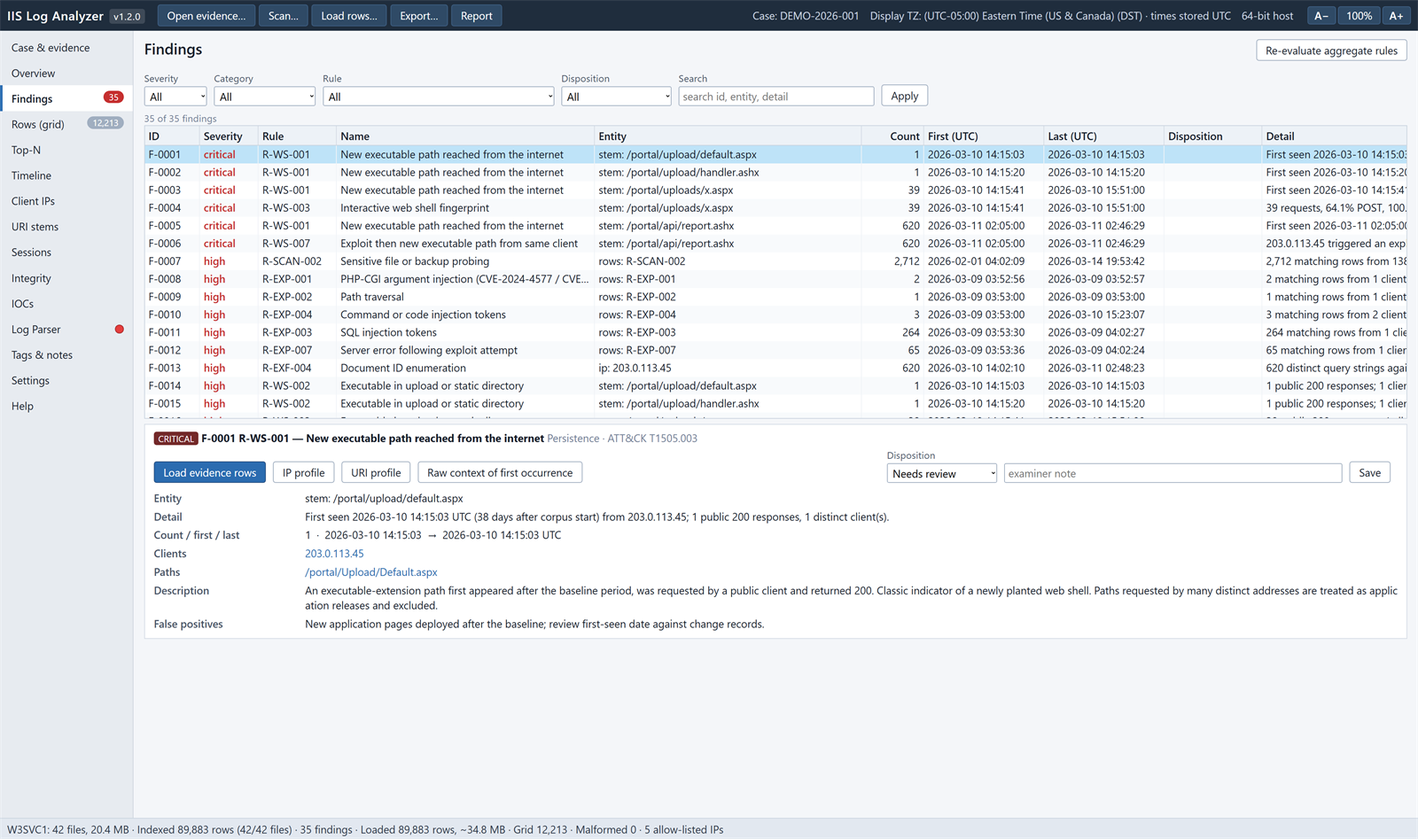
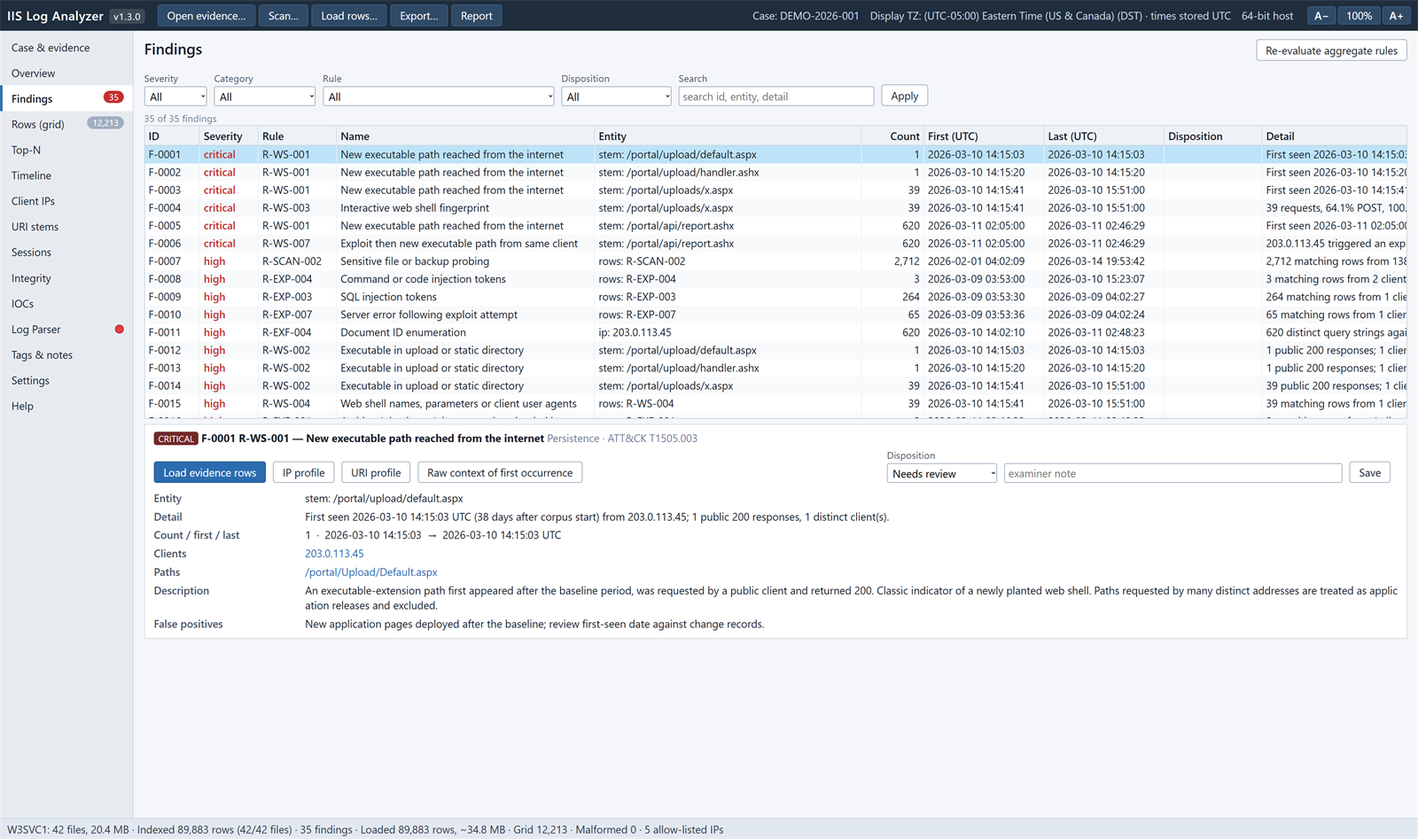
Outcome-graded severities, response mix in findings, chart ranges narrow the Load dialog (1.3.0)
- Rules that match the request itself (R-WS-004, R-EXP-001 to R-EXP-005)
  are graded by the response ("gradeByStatus": true): 2xx and 5xx keep the
  rule severity, 3xx drops one level, 4xx and other failures drop to low,
  status not logged is unchanged. Failed attempts are still counted; a
  finding takes the highest severity of its rows. Same logic in both engines.
- Row-rule findings list their responses by status class and say when no
  request succeeded or caused a server error.
- Loaded rows keep the graded severity of each hit: the sev: filter, row
  colours and rule-hit badges use it.
- Opening the Load dialog from a chart (Overview, Timeline, month heatmap,
  Integrity) now also narrows the filename-date range to the files that
  cover the selected time range, so only those files are read.
- Index schema 7, rule set 1.1.0. Regression checks for the grading.

diff --git a/docs/manual.html b/docs/manual.html
@@ -97,7 +97,7 @@ footer { margin-top: 60px; color: var(--muted); font-size: .85rem; border-top: 1
 <div class="layout">
 <nav class="toc" aria-label="Contents">
   <div class="brand">IIS Log Analyzer</div>
-  <div class="ver">Manual for version 1.2.0</div>
+  <div class="ver">Manual for version 1.3.0</div>
   <ol id="toc-list"></ol>
   <button class="theme-btn" id="themeBtn" type="button">Toggle light / dark</button>
 </nav>
@@ -107,7 +107,7 @@ footer { margin-top: 60px; color: var(--muted); font-size: .85rem; border-top: 1
 <header class="hero">
   <h1>IIS Log Analyzer</h1>
   <p class="lead">Offline forensic analysis of Microsoft IIS W3C Extended logs, from a single HTML Application that runs on any Windows 10 or 11 workstation with nothing to install.</p>
-  <div class="chips"><span class="chip">Version 1.2.0</span><span class="chip">Windows 10 / 11</span><span class="chip">mshta (IE11 engine)</span><span class="chip">Read-only on evidence</span><span class="chip">No network access</span></div>
+  <div class="chips"><span class="chip">Version 1.3.0</span><span class="chip">Windows 10 / 11</span><span class="chip">mshta (IE11 engine)</span><span class="chip">Read-only on evidence</span><span class="chip">No network access</span></div>
 </header>
 
 <details class="toc-mobile"><summary>Contents</summary><ol id="toc-mobile-list"></ol></details>
@@ -237,6 +237,7 @@ tmp\        transient engine jobs, hashing and Log Parser scripts</code></pre>
   <li><strong>Actions:</strong> <em>Load evidence rows</em> loads exactly the rows behind the finding; <em>IP profile</em> and <em>URI profile</em> open the entity; <em>Raw context of first occurrence</em> shows the lines around the first hit, read directly from the evidence file.</li>
   <li><strong>Dispositions:</strong> Needs review, True positive, False positive, Benign true positive, each with an examiner note. They are saved in the case and appear in the report.</li>
   <li><strong>Grouping:</strong> when a rule matches more than 25 clients, files or paths, the 25 strongest are separate findings and the rest are folded into one summary finding.</li>
+  <li><strong>Outcome:</strong> row-rule findings list their responses by status class. Rules that match the request itself are graded by the response (see <a href="#rules">Detection rules</a>), so probes that only received 404s are reported as low.</li>
   <li><strong>Re-evaluate aggregate rules</strong> rebuilds findings from the index after rule settings change. Row-rule changes need a rescan; the app warns when a row rule was enabled after the scan.</li>
 </ul>
 </section>
@@ -245,6 +246,7 @@ tmp\        transient engine jobs, hashing and Log Parser scripts</code></pre>
 <h2>Loading rows</h2>
 <p><em>Load rows&hellip;</em> streams the selected files again and keeps the rows that match a date range and an optional pre-filter (same syntax as the quick filter, for example <code>class:public method:POST</code>). Presets cover common slices. Loading stops at the row cap (2,000,000 rows in the 64-bit host by default); nothing is sampled, and a capped load says so.</p>
 <ul>
+  <li><strong>From a chart:</strong> dragging across or clicking a chart (Overview, Timeline, month heatmap, Integrity) opens the dialog with that time range for the rows and narrows the filename dates to the files that cover it, so only those files are read. Widen the file range if you need to.</li>
   <li><strong>Keep raw lines</strong> stores the original text of each row for display, copying and raw exports.</li>
   <li>Files up to 32 MB are buffered while they are read; larger files are streamed so memory stays bounded.</li>
   <li>A file that cannot be opened is never skipped silently: the load is marked incomplete, the files are listed on screen, and every export from that load records them.</li>
@@ -285,7 +287,7 @@ tmp\        transient engine jobs, hashing and Log Parser scripts</code></pre>
 <tr><td><code>ua:python</code> <code>family:scanner</code> <code>ua:empty</code></td><td>User agent contains, user-agent family, empty user agent</td></tr>
 <tr><td><code>taken:&gt;30000</code> <code>bytes:&gt;1000000</code></td><td>time-taken in milliseconds, sc-bytes</td></tr>
 <tr><td><code>after:2026-03-09</code> <code>before:"2026-03-10 12:00"</code> <code>hour:0-6</code> <code>dow:0,6</code></td><td>Time in the case time zone (append <code>Z</code> for UTC), local hour, weekday (0 = Sunday)</td></tr>
-<tr><td><code>rule:any</code> <code>rule:R-EXP-*</code> <code>sev:high,critical</code></td><td>Any rule hit, rule ID or wildcard, hit severity</td></tr>
+<tr><td><code>rule:any</code> <code>rule:R-EXP-*</code> <code>sev:high,critical</code></td><td>Any rule hit, rule ID or wildcard, hit severity as graded for that row</td></tr>
 <tr><td><code>tag:Attacker</code> <code>tag:none</code> <code>ioc:any</code></td><td>Tags and IOC matches</td></tr>
 <tr><td><code>file:u_ex2603*</code> <code>text:"phrase"</code></td><td>Source file name, raw-line substring</td></tr>
 <tr><td><code>-status:304</code></td><td>Negation of any term</td></tr>
@@ -433,6 +435,16 @@ tmp\        transient engine jobs, hashing and Log Parser scripts</code></pre>
 <tr><td class="nowrap">R-INF-006</td><td class="sev medium">medium</td><td>corpus</td><td>Heartbeat absent</td><td>T1562.002</td></tr>
 <tr><td class="nowrap">R-INF-007</td><td class="sev low">low</td><td>file</td><td>Malformed or undecodable content</td><td>T1070</td></tr>
 </table></div>
+<h3>Severity graded by the response</h3>
+<p>Six row rules match the request itself (web shell names and parameters, PHP-CGI injection, path traversal, SQL and command injection, .NET probing): R-WS-004 and R-EXP-001 to R-EXP-005. A scanner that asks for <code>/shell.php</code> and gets a 404 is hunting for a web shell, not using one, so these rules carry <code>"gradeByStatus": true</code> and their severity follows what the server answered:</p>
+<div class="table-wrap"><table>
+<tr><th>Response</th><th>Severity of that hit</th></tr>
+<tr><td>2xx (reached a handler) or 5xx (the handler failed)</td><td>The rule's severity, as listed above</td></tr>
+<tr><td>3xx</td><td>One level lower</td></tr>
+<tr><td>4xx and anything else</td><td>Low</td></tr>
+<tr><td>Status not logged</td><td>Unchanged</td></tr>
+</table></div>
+<p>Every request is still matched and counted, because failed attempts are evidence of who tried what and when. A finding takes the highest severity among its rows, so a single successful request keeps it at its full severity even among thousands of 404s. Each row-rule finding also lists its responses (for example <em>Responses: 1 2xx, 1,640 4xx</em>) and says when nothing succeeded. In the grid, <code>sev:</code> and the row colours use the graded severity, and the rule-hit badges in the row detail show it, with the rule default in the tooltip. Set <code>gradeByStatus</code> to <code>false</code> in <code>rules\default-rules.json</code> to turn grading off for a rule.</p>
 <h3>Custom rules</h3>
 <p>Add row rules to the JSON with a <code>match</code> block (see the disabled example <code>C-EXAMPLE-001</code>). Supported keys: <code>method</code>, <code>stem</code>, <code>query</code>, <code>ua</code>, <code>user</code>, <code>raw</code> (each <code>{contains|glob|regex|equals}</code>), <code>status</code> (<code>404</code>, <code>4xx</code>, <code>404.8</code>), <code>ipClass</code>, <code>uaFamily</code>, <code>ext</code>, <code>cip</code> (CIDRs), <code>minTaken</code> and <code>exec</code>.</p>
 <h3>Lists</h3>
@@ -548,7 +560,7 @@ tmp\        transient engine jobs, hashing and Log Parser scripts</code></pre>
 </ul>
 </section>
 
-<footer>IIS Log Analyzer 1.2.0 &middot; manual updated 2026-10-05. Screenshots show synthetic data generated by <code>tools\make-demo-logs.js</code>; all addresses are private or from documentation ranges.</footer>
+<footer>IIS Log Analyzer 1.3.0 &middot; manual updated 2026-10-05. Screenshots show synthetic data generated by <code>tools\make-demo-logs.js</code>; all addresses are private or from documentation ranges.</footer>
 </div>
 </main>
 </div>

diff --git a/lib/views.js b/lib/views.js
@@ -143,6 +143,13 @@
   };
 
   /* ======================= DIALOGS ======================= */
+  /* Filename-date range of the files whose rows overlap [from, to] (index first/last timestamps, else the filename
+   * date). Returns null when no dated file overlaps, so the dialog falls back to all files. */
+  V.fileDefaultsForRange = function (from, to) {
+    var files = (st.scope || st.site).files, ids = A.fileIdsForRange(from, to), a = '', z = '', i, d;
+    for (i = 0; i < ids.length; i++) { d = files[ids[i]].nameDate; if (d && d.length === 10) { if (!a || d < a) { a = d; } if (!z || d > z) { z = d; } } }
+    return a ? { from: a, to: z } : null;
+  };
   function fileSelector(files, defaults) {
     var dates = files.filter(function (f) { return f.nameDate; }).map(function (f) { return f.nameDate; }).sort();
     var from = UI.input(defaults && defaults.from || (dates[0] || ''), { style: { width: '110px' } }), to = UI.input(defaults && defaults.to || (dates[dates.length - 1] || ''), { style: { width: '110px' } });
@@ -183,7 +190,8 @@
     if (!st.site) { UI.alert('Load', 'Open evidence first.'); return; }
     preset = preset || {};
     var files = (st.scope || st.site).files;
-    var fs = fileSelector(files, preset.fileDefaults);
+    // A time range from a chart also narrows the file selection to the files that cover it, so only those are read.
+    var fs = fileSelector(files, preset.fileDefaults || ((preset.from || preset.to) ? V.fileDefaultsForRange(preset.from, preset.to) : null));
     var tf = UI.input(preset.from ? U.fmtTs(preset.from, St.tz) : '', { style: { width: '150px' }, placeholder: 'YYYY-MM-DD[ HH:MM]' });
     var tt = UI.input(preset.to ? U.fmtTs(preset.to, St.tz) : '', { style: { width: '150px' }, placeholder: 'YYYY-MM-DD[ HH:MM]' });
     var pre = UI.input(preset.pre || '', { id: 'loadpre', style: { width: '560px' }, placeholder: 'optional quick filter applied while loading, e.g. class:public' });
@@ -540,7 +548,7 @@
       cell: function (r, k) { return St.colByKey[k].get(store, g.view[r]); },
       rowClass: function (r) {
         var i = g.view[r], s = store.status[i], c = s >= 500 ? 's5' : (s >= 400 ? 's4' : '');
-        if (store.flags[i] & St.FLAGS.HITS) { var hs = store.t.hits.vals[store.hits[i]], sv = 0, p = hs.split(','), j; for (j = 0; j < p.length; j++) { sv = Math.max(sv, R.SEV[st.ruleSev[p[j]]] || 0); } c += ' hit' + sv; }
+        if (store.flags[i] & St.FLAGS.HITS) { var hs = store.t.hsev.vals[store.hsev[i]], sv = 0, p = hs.split(','), j; for (j = 0; j < p.length; j++) { sv = Math.max(sv, R.SEV[p[j]] || 0); } c += ' hit' + sv; }
         if (C.cur && St.tagText(store, i)) { c += ' tagged'; }
         return c;
       },
@@ -575,7 +583,7 @@
     var stCode = store.status[i] + '.' + Math.max(0, store.sub[i]);
     var file = store.files[store.file[i]], rk = C.rowKey(st.site.name, file.name, store.line[i]);
     var hitsEl = h('span');
-    if (hits) { hits.split(',').forEach(function (id) { var r = st.ruleset.byId[id]; hitsEl.appendChild(h('span', { className: 'sev sev-' + (r ? r.severity : 'info'), title: r ? r.description : '' }, id)); hitsEl.appendChild(document.createTextNode(' ' + (r ? r.name : '') + '   ')); }); }
+    if (hits) { var hsv = (A2.hitSevs ? A2.hitSevs() : '').split(','); hits.split(',').forEach(function (id, hi) { var r = st.ruleset.byId[id], gsv = hsv[hi] || (r ? r.severity : 'info'); hitsEl.appendChild(h('span', { className: 'sev sev-' + gsv, title: (r ? r.description : '') + (r && gsv !== r.severity ? ' (graded ' + gsv + ' for this response; rule default ' + r.severity + ')' : '') }, id)); hitsEl.appendChild(document.createTextNode(' ' + (r ? r.name : '') + '   ')); }); }
     var ioc = st.iocMatcher ? st.iocMatcher.test(A2) : null;
     var left = UI.kv([
       ['Time', U.fmtTs(store.ts[i]) + ' UTC   \u00b7   ' + U.fmtTs(store.ts[i], St.tz) + ' ' + tzLabel()],

diff --git a/lib/scan.js b/lib/scan.js
@@ -6,7 +6,7 @@
   'use strict';
   var U = NS.util, IO = NS.io, P = NS.parser, R = NS.rules, S = NS.scan = {};
 
-  S.SCHEMA = 6; // 4: ASCII-only JSON; 5: windows-1252 + UTF-8 recovery, DST zones; 6: strict dates, resume state, rule-set fingerprint incl. enabled rules
+  S.SCHEMA = 7; // 7: outcome-graded severities, response mix per rule; 4: ASCII-only JSON; 5: windows-1252 + UTF-8 recovery, DST zones; 6: strict dates, resume state, rule-set fingerprint incl. enabled rules
   S.IP_STEM_CAP = 32;   // distinct paths tracked per client (count continues as overflow)
   S.IP_UA_CAP = 8;      // distinct user agents tracked per client
   S.WIN_PURGE_ROWS = 400000; // purge idle per-client windows this often
@@ -333,9 +333,10 @@
       for (j = 0; j < nh; j++) {
         id = ev.hits[j];
         h = idx.ruleHits[id];
-        if (!h) { h = idx.ruleHits[id] = { n: 0, sev: ev.hitSev[j], first: t, last: t, kept: [], ips: U.newMap(), ipN: 0, stems: U.newMap(), stN: 0 }; }
+        if (!h) { h = idx.ruleHits[id] = { n: 0, sev: ev.hitSev[j], first: t, last: t, kept: [], ips: U.newMap(), ipN: 0, stems: U.newMap(), stN: 0, sx: [0, 0, 0, 0, 0] }; }
         h.n++; if (t > h.last) { h.last = t; } if (t < h.first) { h.first = t; }
         h.sev = R.maxSev(h.sev, ev.hitSev[j]);
+        h.sx[scl >= 2 && scl <= 5 ? scl - 2 : 4]++; // response mix: 2xx, 3xx, 4xx, 5xx, other
         if (h.kept.length < this.retention) { h.kept.push([r.fileId, r.lineNo, t, U.own(ip), h.kept.length < S.KEEP_RAW ? U.own(r.raw.length > 1500 ? r.raw.substr(0, 1500) : r.raw) : '']); }
         if (h.ips[ip] !== undefined) { h.ips[ip]++; } else if (h.ipN < 1000) { h.ips[ip] = 1; h.ipN++; }
         if (h.stems[si.key] !== undefined) { h.stems[si.key]++; } else if (h.stN < 1000) { h.stems[si.key] = 1; h.stN++; }
@@ -495,6 +496,10 @@
       f.count = h.n; f.first = h.first; f.last = h.last; f.ips = topKeys(h.ips, 25); f.stems = topKeys(h.stems, 25);
       f.examples = h.kept.slice(0, 20); f.kept = h.kept.length;
       f.detail = U.fmtNum(h.n) + ' matching rows from ' + (h.ipN >= 1000 ? '1000+' : h.ipN) + ' client(s); ' + (h.stN >= 1000 ? '1000+' : h.stN) + ' distinct path(s).';
+      var sx = h.sx || [0, 0, 0, 0, 0], mix = [], SXL = ['2xx', '3xx', '4xx', '5xx', 'other'], q;
+      f.statusMix = {}; for (q = 0; q < 5; q++) { f.statusMix[SXL[q]] = sx[q]; if (sx[q]) { mix.push(U.fmtNum(sx[q]) + ' ' + SXL[q]); } }
+      if (mix.length) { f.detail += ' Responses: ' + mix.join(', ') + '.'; }
+      if (rule.params && rule.params.gradeByStatus === true && h.n && !sx[0] && !sx[3]) { f.detail += ' No request succeeded or caused a server error (no 2xx or 5xx), so the severity is lowered.'; }
       out.push(f);
     }
     // --- per-IP escalations of row rules ---

diff --git a/lib/store.js b/lib/store.js
@@ -39,8 +39,8 @@
   St.Store = function (maxRows, keepRaw) {
     this.max = maxRows; this.n = 0; this.cap = 0; this.keepRaw = !!keepRaw; this.capped = false; this.failed = []; this.incomplete = false;
     this.t = { ip: new St.StrTable(true), method: new St.StrTable(), stem: new St.StrTable(), query: new St.StrTable(), ua: new St.StrTable(),
-      user: new St.StrTable(), ref: new St.StrTable(), host: new St.StrTable(), hits: new St.StrTable(), reason: new St.StrTable() };
-    this.t.hits.id('');
+      user: new St.StrTable(), ref: new St.StrTable(), host: new St.StrTable(), hits: new St.StrTable(), hsev: new St.StrTable(), reason: new St.StrTable() };
+    this.t.hits.id(''); this.t.hsev.id('');
     this.raw = keepRaw ? [] : null;
     // exact raw export: original line where UTF-8/BOM handling changed it, and non-CRLF terminators (sparse, by row)
     this.rawOrig = keepRaw ? {} : null; this.rawEol = keepRaw ? {} : null;
@@ -51,7 +51,7 @@
   var NUMCOLS = [['ts', Float64Array], ['file', Int32Array], ['line', Int32Array], ['status', Int16Array], ['sub', Int16Array], ['win32', Float64Array],
     ['taken', Int32Array], ['scb', Float64Array], ['csb', Float64Array], ['port', Int32Array], ['flags', Uint8Array],
     ['sip', Int32Array], ['cip', Int32Array], ['eip', Int32Array], ['method', Int32Array], ['stem', Int32Array], ['query', Int32Array], ['ua', Int32Array],
-    ['user', Int32Array], ['ref', Int32Array], ['host', Int32Array], ['hits', Int32Array]];
+    ['user', Int32Array], ['ref', Int32Array], ['host', Int32Array], ['hits', Int32Array], ['hsev', Int32Array]];
   St.Store.prototype.grow = function (newCap) {
     newCap = Math.min(newCap, this.max);
     if (newCap <= this.cap) { return false; }
@@ -81,6 +81,7 @@
     id = T.ua.id(r.ua); this.ua[i] = id; if (this.uaInfo[id] === undefined) { this.uaInfo[id] = c.ui; }
     this.user[i] = T.user.id(r.user); this.ref[i] = T.ref.id(r.referer); this.host[i] = T.host.id(r.host);
     this.hits[i] = ev.n ? T.hits.id(ev.hitString()) : 0;
+    this.hsev[i] = ev.n ? T.hsev.id(ev.hitSevString()) : 0; // graded severity per hit (same order as hits)
     var fl = 0;
     if (c.pub) { fl |= F_PUB; } if (c.si.exec) { fl |= F_EXEC; } if (c.si.stat) { fl |= F_STAT; }
     if (c.si.decErr || c.qi.decErr) { fl |= F_DECERR; } if (r.nonAscii) { fl |= F_NONASCII; } if (ev.n) { fl |= F_HITS; }

diff --git a/lib/rules.js b/lib/rules.js
@@ -9,6 +9,17 @@
   R.SEV = { critical: 5, high: 4, medium: 3, low: 2, info: 1 };
   R.SEV_NAMES = ['critical', 'high', 'medium', 'low', 'info'];
   R.maxSev = function (a, b) { return (R.SEV[a] || 0) >= (R.SEV[b] || 0) ? a : b; };
+  /* Outcome grading (rules with params.gradeByStatus): a request the server answered 2xx or 5xx keeps the rule's
+   * severity (it reached a handler or broke it); 3xx drops one level; 4xx and anything else drop to low (the attempt
+   * failed, e.g. a scanner asking for /shell.php and getting 404). Status not logged (-1): unchanged. Mirrored in C#. */
+  R.SEV_ORDER = ['info', 'low', 'medium', 'high', 'critical'];
+  R.gradeSev = function (sev, status) {
+    if (!(status >= 0)) { return sev; }
+    var c = Math.floor(status / 100), i = R.SEV_ORDER.indexOf(sev);
+    if (c === 2 || c === 5) { return sev; }
+    if (c === 3) { return i > 1 ? R.SEV_ORDER[i - 1] : sev; }
+    return i > 1 ? 'low' : sev;
+  };
   R.EXPLOIT_RULES = { 'R-EXP-001': 1, 'R-EXP-002': 1, 'R-EXP-003': 1, 'R-EXP-004': 1, 'R-EXP-005': 1, 'R-EXP-006': 1 };
 
   /* Simple FNV-1a 32-bit hash, used to fingerprint the rule set text. */
@@ -144,6 +155,7 @@
 
   function prepParams(rule) {
     var p = U.extend({}, rule.params || {});
+    p._grade = p.gradeByStatus === true;
     if (rule.id === 'R-SCAN-005' || rule.id === 'R-SCAN-006') { p._sub = setOf(p.substatus); }
     if (rule.id === 'R-EXP-006') { p._esc = setOf(p.escalateStatuses || [200, 500]); }
     if (rule.id === 'R-EXP-007') { p.windowMinutes = p.windowMinutes || 10; }
@@ -190,7 +202,7 @@
       res = L[i].fn(c, L[i].p, this);
       if (res) {
         this.hits[n] = L[i].id;
-        this.hitSev[n] = typeof res === 'string' ? res : L[i].sev;
+        this.hitSev[n] = L[i].p._grade ? R.gradeSev(typeof res === 'string' ? res : L[i].sev, r.status) : (typeof res === 'string' ? res : L[i].sev);
         n++;
         if (L[i].exploit) { anyExp = true; }
       }
@@ -203,6 +215,8 @@
     this.n = n;
     return n;
   };
+  /* Graded severities of this row's hits, in the order of hitString(). */
+  R.Evaluator.prototype.hitSevString = function () { return this.n ? this.hitSev.slice(0, this.n).join(',') : ''; };
   R.Evaluator.prototype.hitString = function () {
     return this.n ? this.hits.slice(0, this.n).join(',') : '';
   };

diff --git a/test/regression-review.js b/test/regression-review.js
@@ -73,6 +73,25 @@ function check(name, ok, detail) { console.log((ok ? 'PASS ' : 'FAIL ') + name +
   }
   check('stalled fast engine ends with an error', !!result && /no progress/.test(result.message), result ? result.message : 'still waiting');
 
+  // 7. outcome grading (1.3.0): failed requests drop to low, 2xx/5xx keep the rule severity, 3xx drops one level
+  var G = NS.rules.gradeSev;
+  check('grade 404 high -> low', G('high', 404) === 'low');
+  check('grade 200 high stays', G('high', 200) === 'high');
+  check('grade 500 high stays', G('high', 500) === 'high');
+  check('grade 302 high -> medium', G('high', 302) === 'medium');
+  check('grade status not logged unchanged', G('high', -1) === 'high');
+  check('grade info stays info', G('info', 404) === 'info');
+  (function () {
+    var ev = new NS.rules.Evaluator(ruleset, new NS.parser.Deriver(lists)), row = NS.parser.newRow(), fp = new NS.parser.FileParser(0);
+    fp.line('#Fields: date time c-ip cs-method cs-uri-stem cs-uri-query sc-status', row);
+    fp.line('2026-01-01 00:00:01 203.0.113.9 GET /uploads/shell.php - 404', row); ev.evaluate(row);
+    var i404 = ev.hits.slice(0, ev.n).indexOf('R-WS-004'), s404 = i404 >= 0 ? ev.hitSev[i404] : '';
+    fp.line('2026-01-01 00:00:02 203.0.113.9 GET /uploads/shell.php - 200', row); ev.evaluate(row);
+    var i200 = ev.hits.slice(0, ev.n).indexOf('R-WS-004'), s200 = i200 >= 0 ? ev.hitSev[i200] : '';
+    check('R-WS-004 on a 404 graded low', s404 === 'low', s404);
+    check('R-WS-004 on a 200 stays high', s200 === 'high', s200);
+    check('hitSevString parallels hitString', ev.hitSevString().split(',').length === ev.hitString().split(',').length);
+  }());
   fs.rmSync(tmp, { recursive: true, force: true });
   console.log(failures ? failures + ' CHECK(S) FAILED' : 'ALL CHECKS PASSED');
   process.exit(failures ? 1 : 0);

diff --git a/lib/filter.js b/lib/filter.js
@@ -31,6 +31,7 @@
     A.fileId = function () { return s.file[A.i]; };
     A.line = function () { return s.line[A.i]; };
     A.hits = function () { return T.hits.vals[s.hits[A.i]]; };
+    A.hitSevs = function () { return T.hsev.vals[s.hsev[A.i]]; };
     A.port = function () { return s.port[A.i]; };
     A.raw = function () {
       if (s.raw) { return s.raw[A.i]; }
@@ -61,6 +62,7 @@
     A.fileId = function () { return r.fileId; };
     A.line = function () { return r.lineNo; };
     A.hits = function () { return ev.n ? ev.hitString() : ''; };
+    A.hitSevs = function () { return ev.n ? ev.hitSevString() : ''; };
     A.port = function () { return r.port; };
     A.raw = function () { return r.raw; };
     return A;
@@ -191,12 +193,13 @@
         break;
       case 'rule':
         if (op === 'any') { fn = function (A) { return A.hits() !== ''; }; } else if (op === 'sev') {
-          var sevs = setOf(lowerList(v)), rsev = env.ruleSev || {}, hc = U.newMap();
+          // severity of each hit as graded for this row (outcome-graded rules drop for failed requests)
+          var sevs = setOf(lowerList(v)), hc = U.newMap();
           fn = function (A) {
-            var h = A.hits(); if (!h) { return false; }
+            var h = A.hitSevs(); if (!h) { return false; }
             var r = hc[h]; if (r !== undefined) { return r; }
             var parts = h.split(','); r = false;
-            for (var j = 0; j < parts.length; j++) { if (sevs[rsev[parts[j]]] === 1) { r = true; } }
+            for (var j = 0; j < parts.length; j++) { if (sevs[parts[j]] === 1) { r = true; } }
             hc[h] = r; return r;
           };
         } else {

diff --git a/lib/util.js b/lib/util.js
@@ -7,7 +7,7 @@ var IISLA = IISLA || {};
   'use strict';
   var U = NS.util = {};
 
-  NS.VERSION = '1.2.0';
+  NS.VERSION = '1.3.0';
   NS.bootWarnings = NS.bootWarnings || [];
   /* Debug trace to %TEMP%\iisla-trace.log (enabled with /trace on the command line or always during autotest). */
   NS.traceOn = false;

diff --git a/engine/IISScanEngine.cs b/engine/IISScanEngine.cs
@@ -984,7 +984,7 @@ namespace IISLA
 
     // ---------------------------------------------------------------- rules (R.Evaluator)
     public sealed class Ctx { public Row r; public StemInfo si; public QueryInfo qi; public UaInfo ui; public string cls, ip; public bool pub, newUser; }
-    public sealed class RowRule { public string id, sev; public bool exploit; public Func<Ctx, string> fn; }
+    public sealed class RowRule { public string id, sev; public bool exploit, grade; public Func<Ctx, string> fn; }
     public sealed class ExpWin { public double ts; public HashSet<string> stems = new HashSet<string>(StringComparer.Ordinal); }
 
     public sealed class Evaluator
@@ -1017,7 +1017,8 @@ namespace IISLA
                 object mv;
                 if (fn == null && r.TryGetValue("match", out mv) && mv is Dictionary<string, object>) fn = CompileMatch((Dictionary<string, object>)mv);
                 if (fn == null) continue;
-                list.Add(new RowRule { id = id, sev = (string)r["severity"], fn = fn, exploit = ExploitRules.Contains(id) });
+                object gb; bool grade = p.TryGetValue("gradeByStatus", out gb) && gb is bool && (bool)gb;
+                list.Add(new RowRule { id = id, sev = (string)r["severity"], fn = fn, exploit = ExploitRules.Contains(id), grade = grade });
             }
         }
         const string T = "\u0001true"; // marker: rule matched with its default severity
@@ -1173,7 +1174,7 @@ namespace IISLA
             foreach (var rule in list)
             {
                 string res = rule.fn(c);
-                if (res != null) { hits.Add(rule.id); hitSev.Add(res == T ? rule.sev : res); n++; if (rule.exploit) anyExp = true; }
+                if (res != null) { string sv = res == T ? rule.sev : res; if (rule.grade) sv = GradeSev(sv, r.Status); hits.Add(rule.id); hitSev.Add(sv); n++; if (rule.exploit) anyExp = true; }
             }
             if (anyExp)
             {
@@ -1185,6 +1186,16 @@ namespace IISLA
         }
         static readonly Dictionary<string, int> Sev = new Dictionary<string, int> { { "critical", 5 }, { "high", 4 }, { "medium", 3 }, { "low", 2 }, { "info", 1 } };
         public static string MaxSev(string a, string b) { int x, y; Sev.TryGetValue(a ?? "", out x); Sev.TryGetValue(b ?? "", out y); return x >= y ? a : b; }
+        // Outcome grading, mirrors rules.js R.gradeSev: 2xx/5xx keep the severity, 3xx drops one level, 4xx and others drop to low.
+        static readonly string[] SevOrder = { "info", "low", "medium", "high", "critical" };
+        public static string GradeSev(string sev, double status)
+        {
+            if (!(status >= 0)) return sev;
+            double c = Math.Floor(status / 100); int i = Array.IndexOf(SevOrder, sev);
+            if (c == 2 || c == 5) return sev;
+            if (c == 3) return i > 1 ? SevOrder[i - 1] : sev;
+            return i > 1 ? "low" : sev;
+        }
     }
 
     // ---------------------------------------------------------------- index records
@@ -1197,7 +1208,7 @@ namespace IISLA
     public sealed class StemRec { public double n, first, last, fFile, fLine, ipOv, pubN, post, ok, okPub, s4, s5; public int ipN; public string fIp, raw; public bool exec, upDir; public OMap<double> ips = new OMap<double>(), sts = new OMap<double>(); }
     public sealed class UaRec { public double n, first, last, ipOv; public int ipN; public string fam; public OMap<double> ips = new OMap<double>(); }
     public sealed class UserRec { public double n, first, last, fFile, fLine, pub; public int ipN; public OMap<double> ips = new OMap<double>(); }
-    public sealed class RuleHit { public double n, first, last; public string sev; public List<object[]> kept = new List<object[]>(); public OMap<double> ips = new OMap<double>(), stems = new OMap<double>(); public int ipN, stN; }
+    public sealed class RuleHit { public double n, first, last; public string sev; public List<object[]> kept = new List<object[]>(); public OMap<double> ips = new OMap<double>(), stems = new OMap<double>(); public int ipN, stN; public double[] sx = new double[5]; }
     public sealed class EnumRec { public int n; public HashSet<string> q = new HashSet<string>(StringComparer.Ordinal); }
     public sealed class Win
     {
@@ -1575,6 +1586,7 @@ namespace IISLA
                 if (!ruleHits.TryGet(id, out h)) { h = new RuleHit { sev = ev.hitSev[j], first = t, last = t }; ruleHits[id] = h; }
                 h.n++; if (t > h.last) h.last = t; if (t < h.first) h.first = t;
                 h.sev = Evaluator.MaxSev(h.sev, ev.hitSev[j]);
+                h.sx[scl >= 2 && scl <= 5 ? (int)scl - 2 : 4]++; // response mix: 2xx, 3xx, 4xx, 5xx, other
                 if (h.kept.Count < retention) h.kept.Add(new object[] { (double)r.fileId, (double)r.lineNo, t, ip, h.kept.Count < KEEP_RAW ? (r.raw.Length > 1500 ? r.raw.Substring(0, 1500) : r.raw) : "" });
                 if (h.ips.TryGet(ip, out cur)) h.ips[ip] = cur + 1; else if (h.ipN < 1000) { h.ips[ip] = 1; h.ipN++; }
                 if (h.stems.TryGet(si.key, out cur)) h.stems[si.key] = cur + 1; else if (h.stN < 1000) { h.stems[si.key] = 1; h.stN++; }
@@ -1762,6 +1774,7 @@ namespace IISLA
                     var h = ruleHits[k]; j.Key(k).ObjStart().KNum("n", h.n).KStr("sev", h.sev).KNum("first", h.first).KNum("last", h.last);
                     j.Key("kept").ArrStart(); foreach (var e in h.kept) { j.ArrStart().Num((double)e[0]).Num((double)e[1]).Num((double)e[2]).Str((string)e[3]).Str((string)e[4]).EndArr(); } j.EndArr();
                     MapNum(j, "ips", h.ips); j.KNum("ipN", h.ipN); MapNum(j, "stems", h.stems); j.KNum("stN", h.stN);
+                    j.Key("sx").ArrStart(); foreach (var x in h.sx) j.Num(x); j.EndArr();
                     j.EndObj();
                 }
                 j.EndObj();

diff --git a/README.md b/README.md
@@ -28,7 +28,7 @@ Double-clicking `IISLogAnalyzer.hta` works too. An evidence path can be passed a
 1. **Case & evidence.** Open or create a case. The workspace is `<workspace root>\<CaseID>\IIS-Log-Analyzer\` (default root `%USERPROFILE%\Documents\IIS Log Analyzer Cases`, set in Settings). Choose the display time zone for the case. Open the evidence folder: a `LogFiles` folder, a `W3SVCn` folder, or a single `.log` file. Velociraptor collections are recognised automatically; original paths (`C:\inetpub\...`) are shown alongside the `C%3A` on-disk paths.
 2. **Scan.** Streams every selected file once and builds the index: per-day/hour counts, per-client, per-path and per-user-agent aggregates, first-seen tables, restarts, gaps and rule hits. Rows are not kept in memory. Choose the fast or the built-in engine (see below). Scans can be cancelled and continued. The index is cached in the case workspace and reloaded automatically if the evidence is unchanged; a changed file blocks the cached index and is reported.
 3. **Overview and Findings.** Review the corpus, then findings by severity. Record a disposition (true positive, false positive, benign) and a note for each.
-4. **Load rows.** Choose a date range and/or a pre-filter (for example `class:public`) to load a slice into the grid. The load stops at the row cap; nothing is sampled.
+4. **Load rows.** Choose a date range and/or a pre-filter (for example `class:public`) to load a slice into the grid. Opened from a chart, the dialog takes the selected time range and narrows the file selection to the files that cover it. The load stops at the row cap; nothing is sampled.
 5. **Investigate.** Grid with quick filters, pivots (right-click), raw context straight from the evidence file (Enter / double-click), Top-N, Timeline, IP and URI profiles, Sessions, and free-form SQL through Log Parser 2.2 when it is installed.
 6. **Tag, note, export, report.** Every export and report is hashed (`.sha256` sidecar) and recorded in `audit.log`.
 
@@ -83,7 +83,7 @@ If Microsoft Log Parser 2.2 is installed (default `Program Files (x86)\Log Parse
 | `ua:python` `family:scanner` `ua:empty` | user agent contains, family, empty |
 | `taken:>30000` `bytes:>1000000` | time-taken ms, sc-bytes |
 | `after:2026-09-08` `before:"2026-09-08 12:00"` `hour:0-6` `dow:0,6` | time in the display time zone (append `Z` for UTC), local hour, weekday |
-| `rule:any` `rule:R-EXP-*` `sev:high,critical` | rule hits |
+| `rule:any` `rule:R-EXP-*` `sev:high,critical` | rule hits; `sev:` uses the severity graded for that row |
 | `tag:Attacker` `tag:none` `ioc:any` | tags and IOC matches |
 | `file:u_ex2609*` `text:"phrase"` | source file, raw-line substring |
 | `-field:value` | negate any term; bare words must all appear in the stem or query |
@@ -91,6 +91,7 @@ If Microsoft Log Parser 2.2 is installed (default `Program Files (x86)\Log Parse
 ## Detection rules and lists
 
 - `rules\default-rules.json` holds the 41 built-in rules (reconnaissance, exploitation, web shells, credential access, exfiltration, log integrity) with severity, ATT&CK IDs, descriptions and tunable `params`. Their logic lives in `lib\rules.js` and `lib\scan.js` (and, identically, in the fast engine); thresholds come from the JSON.
+- Rules that match the request itself (R-WS-004 web shell names and parameters, R-EXP-001 to R-EXP-005 injection and probing) are graded by the response (`"gradeByStatus": true`): a hit keeps the rule severity when the server answered 2xx or 5xx, drops one level for 3xx, and drops to low for 4xx and other failures. Failed attempts are still counted. A finding takes the highest severity of its rows, and every row-rule finding lists its responses by status class.
 - Rules can be enabled or disabled per case under Settings. Row-rule changes need a rescan. Aggregate-rule changes apply with "Re-evaluate aggregate rules" in Findings.
 - Custom row rules are added to the JSON with a `match` block (see `C-EXAMPLE-001`). Supported keys: `method`, `stem`, `query`, `ua`, `user`, `raw` (each `{contains|glob|regex|equals}`), `status` (`404`, `4xx`, `404.8`), `ipClass`, `uaFamily`, `ext`, `cip` (CIDRs), `minTaken`, `exec`.
 - `lists\*.txt` hold the sensitive paths, scanner user agents, executable and static extensions, login and download endpoints, known exploit paths, web shell names and parameters. One entry per line; `re:` prefix for a regex, `*`/`?` for a glob, otherwise a substring. Restart the HTA after editing.
